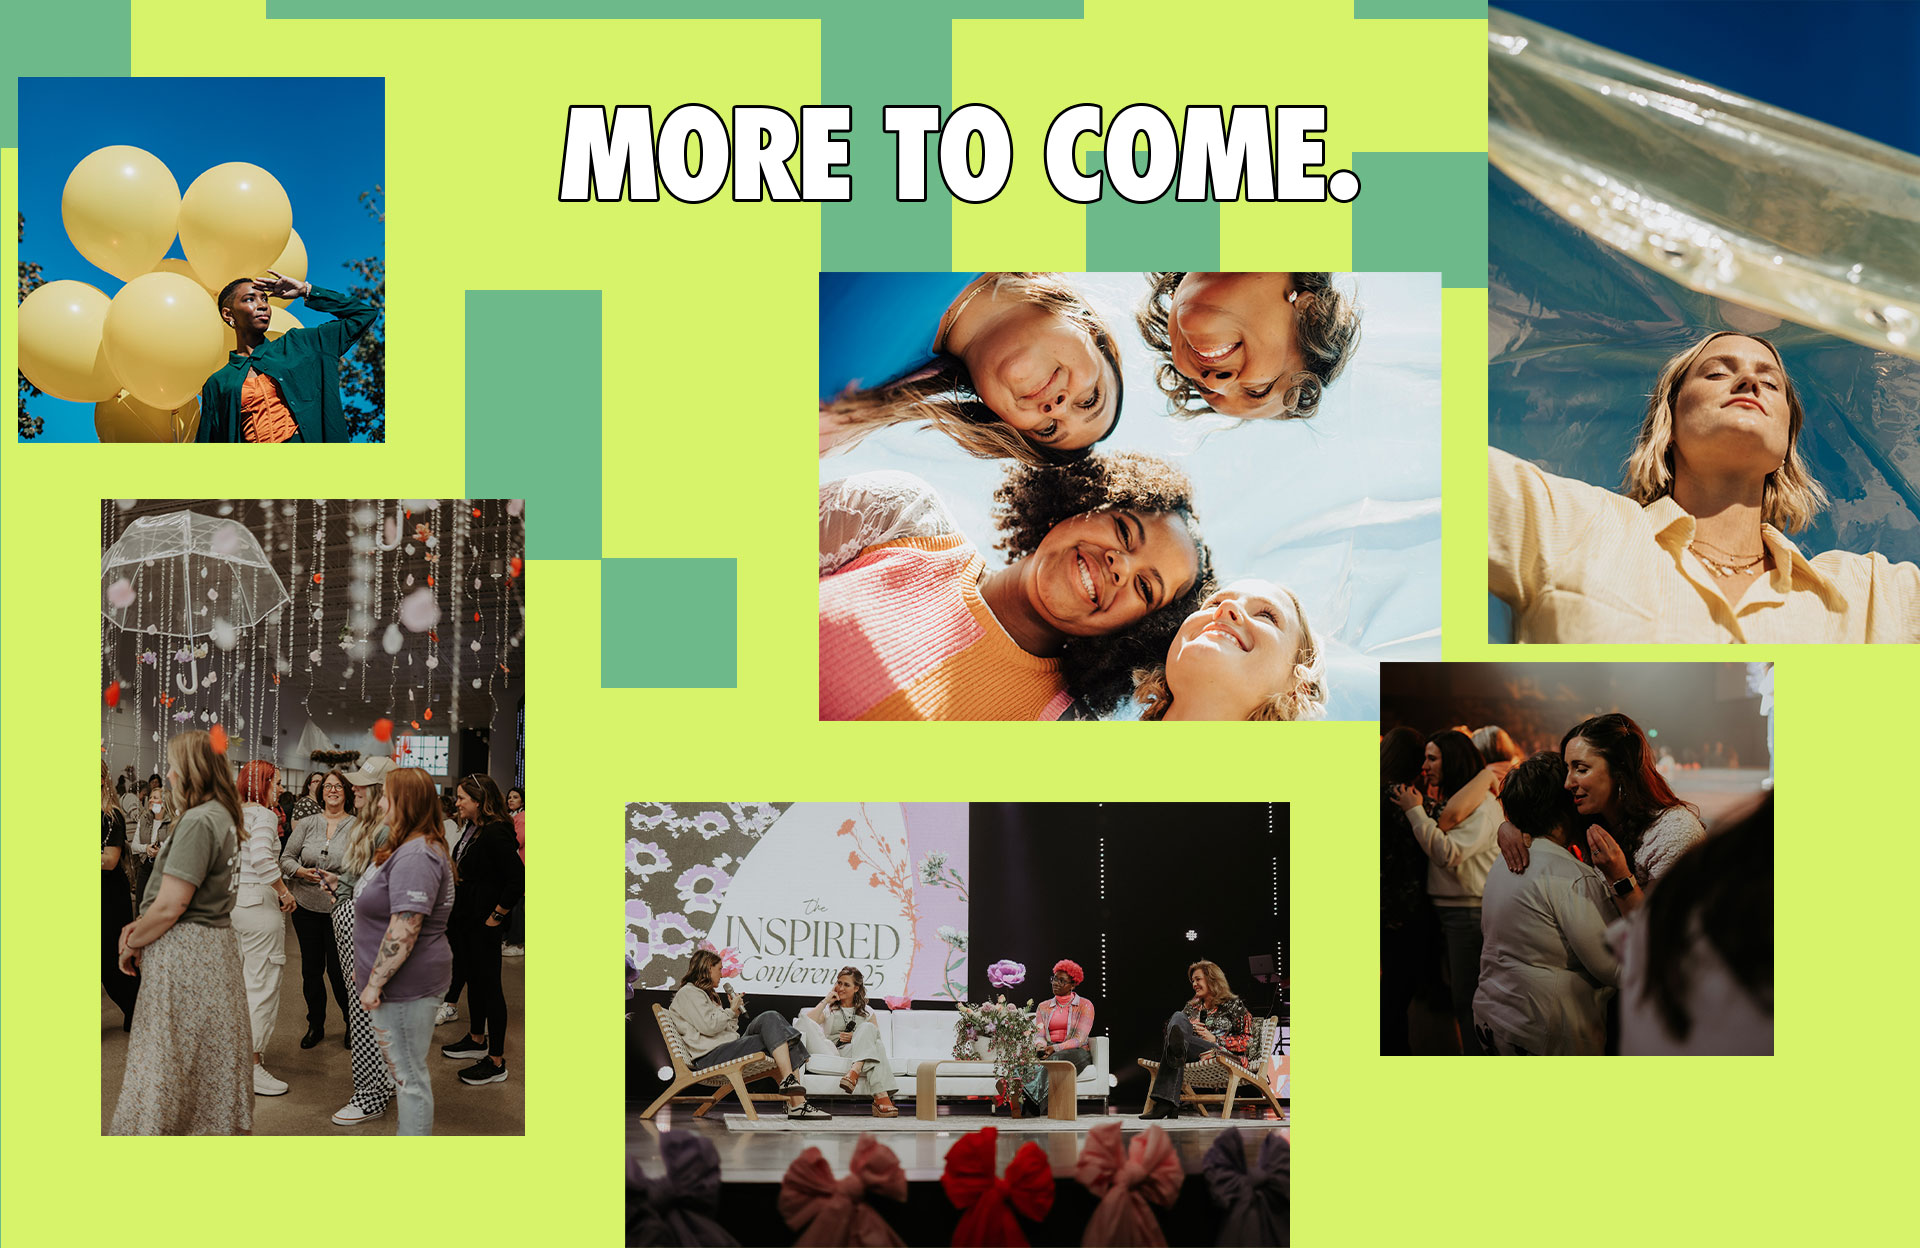
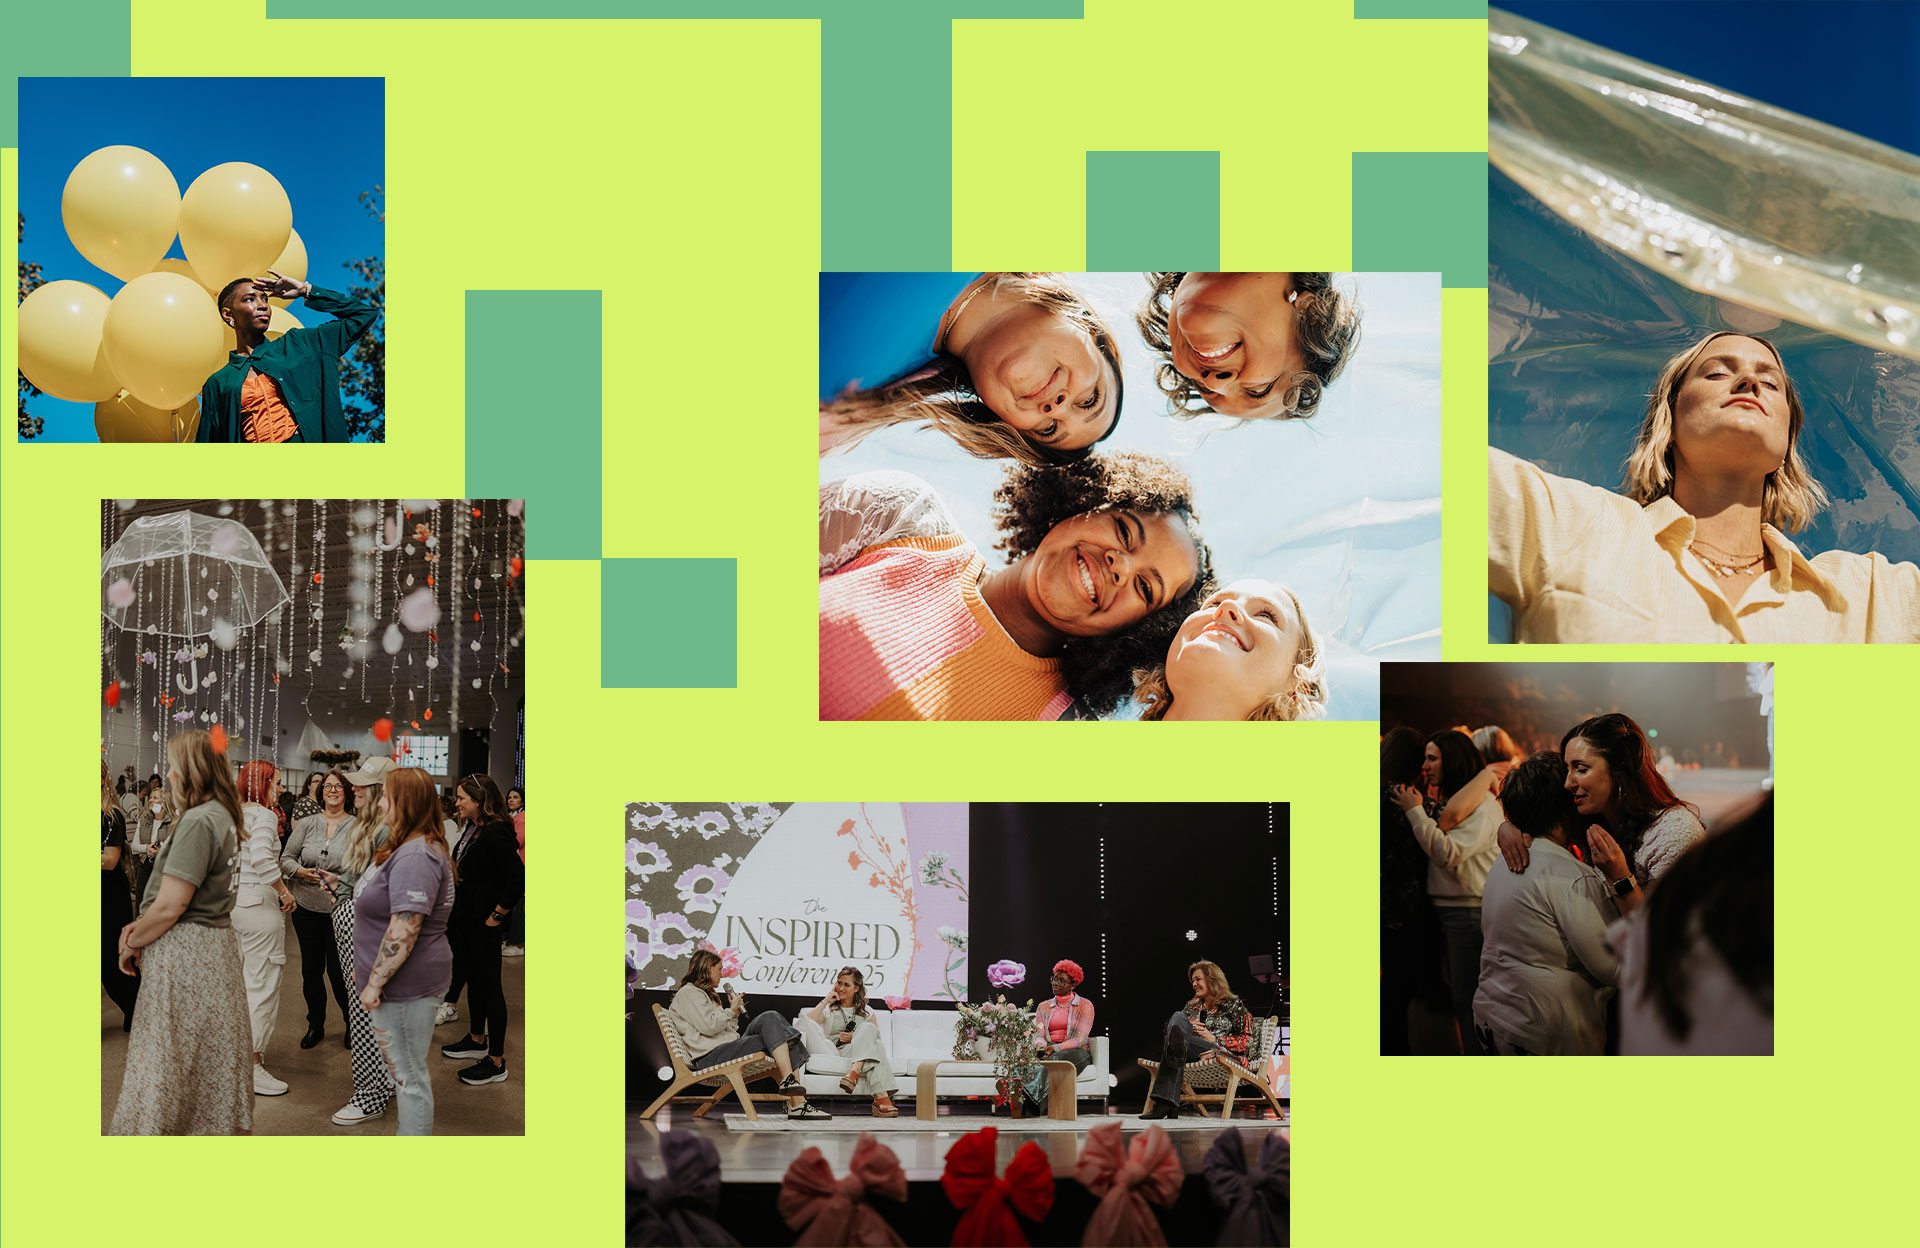
gallery fix

Changed region(s): [[0.2812, 0.0625, 0.7188, 0.1875]]

diff --git a/assets/css/conference.css b/assets/css/conference.css
@@ -62,10 +62,10 @@ body {
 }
 
 .hero-overlay button:hover {
-  background-color: #ff89e4;
-  transform: scale(1.08);
-  transition: all 0.3s ease;
-  box-shadow: 0 0 15px rgba(255, 181, 250, 0.5);
+	background-color: #ff89e4;
+	transform: scale(1.08);
+	transition: all 0.3s ease;
+	box-shadow: 0 0 15px rgba(255, 181, 250, 0.5);
 }
 
 .hero-overlay div {
@@ -91,26 +91,54 @@ body {
 }
 
 .theme-title {
-background-color: #6db989;
-background-image: url('images/theme-title-main-content.jpg');
+	background-color: #6db989;
+	background-image: url('images/theme-title-main-content.jpg');
 	background-size: cover;
-  background-position: center;
-  background-repeat: no-repeat;
-  height: 500px; /* adjust to your image size */
-  width: 100%;
+	background-position: center;
+	background-repeat: no-repeat;
+	height: 500px;
+	/* adjust to your image size */
+	width: 100%;
 }
 
-.theme-title > img {
-	max-width: 100%;             /* responsive scaling */
-  max-height: 87%;            /* don’t exceed container */
-  object-fit: contain;         /* keep full image visible */
-  display: block;
+.theme-title>img {
+	max-width: 100%;
+	max-height: 87%;
+	object-fit: contain;
+	padding: 34px 0px;
+	display: block;
 }
 
 .fixer {
 	width: 24px;
-    background-color: #6db989;
-    margin: 0px -12px;
+	background-color: #6db989;
+	margin: 0px -12px;
+}
+
+.gallery-main {
+	display: flex;
+	justify-content: center;
+	/* centers horizontally */
+	align-items: flex-start;
+	/* centers vertically */
+	background-color: #6db989;
+	background-image: url('images/gallery.jpg');
+	/* adjust path if needed */
+	background-size: cover;
+	background-position: center;
+	background-repeat: no-repeat;
+	height: 1235px;
+	width: 100%;
+	padding: 40px 0;
+	/* optional: gives breathing space */
+}
+
+.gallery-main>img {
+	max-width: 42%;
+	height: auto;
+	object-fit: contain;
+	display: block;
+	padding: 34px 0px;
 }
 
 .conference-title {
@@ -214,17 +242,17 @@ background-image: url('images/theme-title-main-content.jpg');
 }
 
 .conference-footer {
-  background-color: #d7f36a;
-  display: flex;
+	background-color: #d7f36a;
+	display: flex;
 	align-items: flex-end;
-  justify-content: space-between;
-  box-sizing: border-box;
-  width: 100%;
+	justify-content: space-between;
+	box-sizing: border-box;
+	width: 100%;
 }
 
 .footer-left img {
-  width: 100%;
-  display: block;
+	width: 100%;
+	display: block;
 }
 
 .footer-center {
@@ -237,10 +265,10 @@ background-image: url('images/theme-title-main-content.jpg');
 }
 
 .footer-right {
-  text-align: left;
-  font-size: 1.2rem;
-  font-weight: 500;
-  color: #000;
+	text-align: left;
+	font-size: 1.2rem;
+	font-weight: 500;
+	color: #000;
 	line-height: 34px;
 	padding: 0px 46px;
 }
@@ -267,13 +295,13 @@ background-image: url('images/theme-title-main-content.jpg');
 }
 
 .footer-icon img {
-  width: 28px;
-  height: 30px;
-  object-fit: contain;
-  margin: 4px 0px;
+	width: 28px;
+	height: 30px;
+	object-fit: contain;
+	margin: 4px 0px;
 }
 
-.footer-end-line{
+.footer-end-line {
 	padding-bottom: 36px;
 }
 

diff --git a/Application/View/template/conference.php b/Application/View/template/conference.php
@@ -104,8 +104,8 @@
 		</div>
 		<!-- Row 8 -->
 		<div class="row">
-			<div style="flex: 0 0 100%;">
-				<img src="assets/css/images/gallery.jpg" alt="">
+			<div class="gallery-main" style="flex: 0 0 100%;">
+				<img src="assets/css/images/more_to_come.png" alt="">
 			</div>
 		</div>
 		<!-- Footer -->
